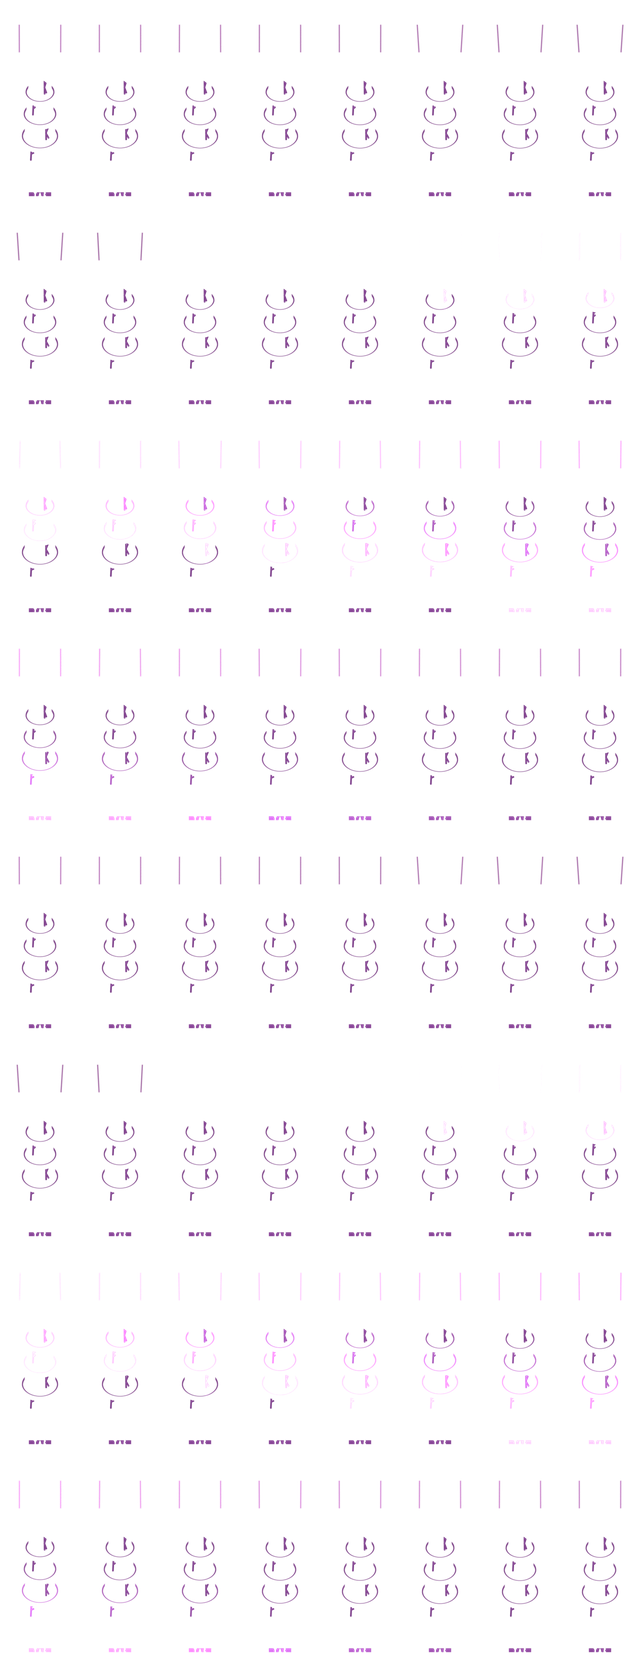
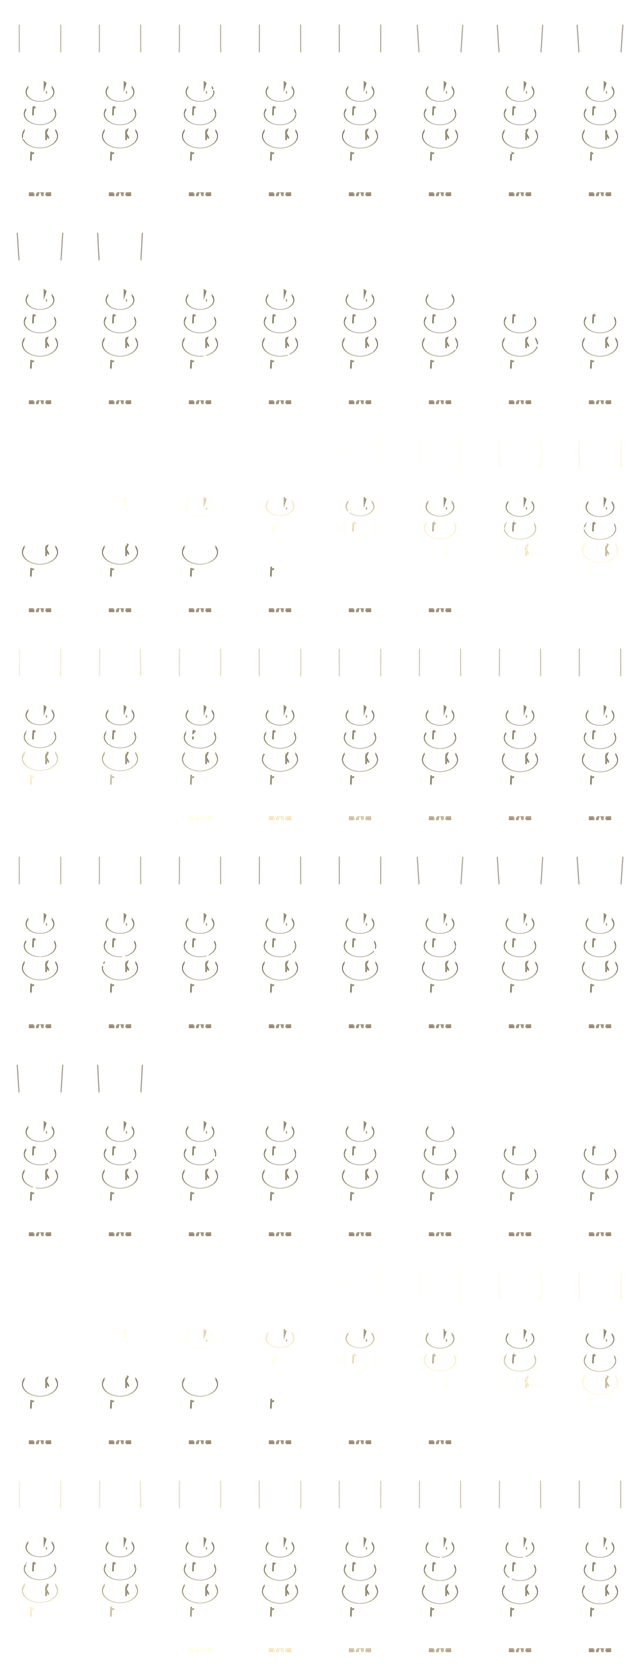
Make the resonance spire a whimsical golden music box
Bright jewel-like gold and brass with cream, sky-blue and rose enamel
instead of purple paint, quartz prisms, stars on the tines, a crescent
on the gimbal, a gold spiral up the shaft, little bells that swing when
the tines are plucked and golden motes rising like notes. It glows warm
golden-white.

diff --git a/blender/resonance_spire.py b/blender/resonance_spire.py
@@ -5,12 +5,16 @@ beacon that spreads the effect of the orb sitting in its cradle).
     blender -b --factory-startup -P blender/resonance_spire.py -- \
         --out graphics/generated/resonance-spire [--preview --frame 0,16]
 
-The spire is a tall gold-and-purple obelisk crowned by a tuning fork. The orb
-sits in a cradle between the tines. A gimbal ring spins around the orb; the
-two ruby strikers on its equator pluck both tines every half turn, the fork
-rings, and each blow sends a resonance wave down the obelisk: its runes light
-up top to bottom, the three floating halo rings jump as the wave passes and
-the rune band on the plinth flashes when it reaches the ground.
+The spire is a whimsical golden music box: a polished bright-gold obelisk
+with cream and sky-blue enamel, a spiral filigree twisting up it, crowned by a
+tuning fork with star finials. The orb sits in a cradle between the tines.
+A gimbal ring (with a crescent on top) spins around the orb; the two sapphire
+strikers on its equator pluck both tines every half turn, the fork rings, and
+each blow sends a resonance wave down the obelisk: the little bells under the
+capital swing, the runes light up top to bottom, the three floating halo
+rings jump as the wave passes and the rune band on the plinth flashes when it
+reaches the ground. Golden motes drift up around the shaft like notes rising
+from a music box.
 
 The orb itself is not part of the animation: Factorio draws it as a beacon
 module visualisation, so the spire shows whichever orb is inserted (or an
@@ -33,7 +37,7 @@ from pathlib import Path
 
 import bmesh
 import bpy
-from mathutils import Vector
+from mathutils import Matrix, Vector
 
 sys.path.insert(0, str(Path(__file__).parent))
 import fblend  # noqa: E402
@@ -44,6 +48,49 @@ from fblend import *  # noqa: E402,F401,F403
 
 N = fblend.N
 OUT = fblend.OUT
+
+# ----------------------------------------------------------------------------
+# Materials: a whimsical golden music box
+# ----------------------------------------------------------------------------
+# The spire stays golden but reads unlike the conjuration machine's heavy dark
+# gold: polished, bright, jewel-like gold and brass over cream enamel panels
+# with sky-blue and rose enamel accents, sapphire/rose-quartz studs and clear
+# quartz points. The shared helpers (frames, filigree, studs) use fblend's
+# GOLD/RUBY, so those names are rebound to the spire's own materials.
+BRIGHT_GOLD = metal("bright_gold", (1.0, 0.8, 0.36), (0.28, 0.16, 0.04), rough=(0.07, 0.22),
+                    dirt=0.06, bump=0.08)
+BRIGHT_BRASS = metal("bright_brass", (0.9, 0.7, 0.36), (0.2, 0.12, 0.04), rough=(0.15, 0.35),
+                     dirt=0.12)
+CREAM = paint("cream_enamel", (0.8, 0.66, 0.44), (0.16, 0.1, 0.05), noise_scale=9.0,
+              bump=0.25, bump_scale=30.0, dirt=0.15)
+SKY = paint("sky_enamel", (0.3, 0.55, 0.78), (0.04, 0.08, 0.14), noise_scale=9.0,
+            bump=0.25, bump_scale=30.0, dirt=0.15)
+ROSE_ENAMEL = paint("rose_enamel", (0.82, 0.45, 0.5), (0.15, 0.05, 0.06), noise_scale=9.0,
+                    bump=0.25, bump_scale=30.0, dirt=0.15)
+SAPPHIRE = gem("sapphire", (0.12, 0.35, 0.85))
+ROSE = gem("rose_quartz", (0.95, 0.42, 0.55))
+
+
+def crystal(name, tint=(0.97, 0.95, 0.9)):
+    """Clear quartz with a thin-film sheen that splits highlights into
+    prismatic glints."""
+    m, nt, bsdf = node_mat(name)
+    bsdf.inputs["Base Color"].default_value = (*tint, 1)
+    bsdf.inputs["Transmission Weight"].default_value = 1.0
+    bsdf.inputs["Roughness"].default_value = 0.03
+    bsdf.inputs["IOR"].default_value = 1.54
+    bsdf.inputs["Thin Film Thickness"].default_value = 420.0
+    bsdf.inputs["Thin Film IOR"].default_value = 1.9
+    return m
+
+
+CRYSTAL = crystal("quartz")
+GOLD = fblend.GOLD = BRIGHT_GOLD
+RUBY = fblend.RUBY = SAPPHIRE
+BRASS = BRIGHT_BRASS
+PURPLE = CREAM               # panels: cream enamel instead of purple paint
+BRONZE = BRIGHT_BRASS
+WARM = (1.0, 0.84, 0.55)     # resonance glow: warm golden white
 
 root = bpy.data.objects.new("resonance_spire", None)
 link(root)
@@ -117,18 +164,18 @@ ROW_Z = [SH_Z0 + (SH_Z1 - SH_Z0) * (k + 0.5) / RUNE_ROWS for k in range(RUNE_ROW
 ROW_EM = []
 ROW_MAT = []
 for k in range(RUNE_ROWS):
-    m, s = emitter(f"rune_row{k}", (0.8, 0.2, 1.0), 0.3, base=(0.08, 0.02, 0.08))
+    m, s = emitter(f"rune_row{k}", WARM, 0.3, base=(0.12, 0.1, 0.08))
     ROW_MAT.append(m)
     ROW_EM.append(s)
 BAND_Z = [SH_Z0 + (SH_Z1 - SH_Z0) * k / RUNE_ROWS for k in range(1, RUNE_ROWS)]
 HALO_Z = [z + 0.05 for z in BAND_Z]         # floating resonator rings over the bands
 HALO_MAT, HALO_EM = [], []
 for k in range(len(HALO_Z)):
-    m, s = emitter(f"halo_band{k}", (0.85, 0.25, 1.0), 0.3, base=(0.1, 0.02, 0.1))
+    m, s = emitter(f"halo_band{k}", WARM, 0.3, base=(0.12, 0.1, 0.08))
     HALO_MAT.append(m)
     HALO_EM.append(s)
-BASE_RUNE, BASE_EM = emitter("base_rune", (0.8, 0.2, 1.0), 0.3, base=(0.08, 0.02, 0.08))
-TINE_RUNE, TINE_EM = emitter("tine_rune", (1.0, 0.45, 1.0), 0.3, base=(0.1, 0.03, 0.1))
+BASE_RUNE, BASE_EM = emitter("base_rune", WARM, 0.3, base=(0.12, 0.1, 0.08))
+TINE_RUNE, TINE_EM = emitter("tine_rune", (1.0, 0.9, 0.72), 0.3, base=(0.12, 0.1, 0.08))
 
 # ----------------------------------------------------------------------------
 # Plinth and pedestal
@@ -146,7 +193,7 @@ for i in (7, 0, 1):          # visible faces: front chamfers and front
     j = (i + 1) % 8
     p = Panel(P3[i], P3[j], T3[j], T3[i])
     if i == 0:
-        # front: glowing rune band between gold bosses; flashes when the wave lands
+        # front: glowing rune band between rose-quartz bosses; flashes when the wave lands
         inner = sub_panel(p, 0.2, 0.8, 0.05, 0.95)
         inner.build("plinth_band", BASE_RUNE, thick=0.004, parent=root)
         glow(bpy.data.objects["plinth_band"])
@@ -156,13 +203,13 @@ for i in (7, 0, 1):          # visible faces: front chamfers and front
                 curve_obj(f"plinth_glyph{gi}_{si}",
                           [g.at(0.15 + 0.7 * a, 0.1 + 0.8 * b, 0.01) for a, b in stroke],
                           GOLD, 0.012, root)
-        p.studs("plinth_boss", [(0.1, 0.5), (0.9, 0.5)], r=0.035, mat=RUBY, parent=root)
+        p.studs("plinth_boss", [(0.1, 0.5), (0.9, 0.5)], r=0.035, mat=ROSE, parent=root)
         gold_frame(inner, "plinth_band_frame", r=0.018)
     else:
         p.studs(f"plinth_rivet{i}", [(0.3, 0.5), (0.7, 0.5)], r=0.02, parent=root)
 
 step = octagon(ST_HALF, ST_CH)
-prism("step", step, PL_H, ST_Z, PURPLE, top_poly=[(x * 0.9, y * 0.9) for x, y in step])
+prism("step", step, PL_H, ST_Z, SKY, top_poly=[(x * 0.9, y * 0.9) for x, y in step])
 rail("step_rail", [(x * 0.9, y * 0.9, ST_Z) for x, y in step], 0.035, closed=True)
 S3 = [Vector((x, y, PL_H + 0.01)) for x, y in step]
 U3 = [Vector((x * 0.9, y * 0.9, ST_Z)) for x, y in step]
@@ -179,15 +226,72 @@ for i in (7, 0, 1):
     else:
         p.studs(f"step_gem{i}", [(0.5, 0.5)], r=0.022, mat=RUBY, parent=root)
 
-# gold scroll buttresses from the pedestal's corners up onto the shaft
+
+
+def prism_crystal(name, base, axis, length, r, parent=root):
+    """Hexagonal quartz point: a six-sided column with a pyramidal tip,
+    grown from `base` along `axis`."""
+    axis = Vector(axis).normalized()
+    o = bpy.data.objects.new(name, None)
+    link(o, parent)
+    o.location = base
+    o.rotation_euler = axis.to_track_quat("Z", "Y").to_euler()
+    body = length * 0.7
+    cyl(name + "_body", r, body, (0, 0, body / 2), CRYSTAL, o, verts=6, bevel=0.003)
+    cyl(name + "_tip", r, length - body, (0, 0, body + (length - body) / 2), CRYSTAL, o,
+        verts=6, r2=0.0, bevel=0.002)
+    return o
+
+
+def flat_shape(name, outline, depth, loc, mat, parent):
+    """Extruded 2D outline (in its local xz plane), tilted back to face the
+    45 degree camera so it reads as a flat cut-out like a music-box ornament."""
+    bm = bmesh.new()
+    f = [bm.verts.new((x, -depth / 2, z)) for x, z in outline]
+    bk = [bm.verts.new((x, depth / 2, z)) for x, z in outline]
+    bm.faces.new(list(reversed(f)))
+    bm.faces.new(bk)
+    n = len(outline)
+    for i in range(n):
+        j = (i + 1) % n
+        bm.faces.new((f[i], f[j], bk[j], bk[i]))
+    bmesh.ops.recalc_face_normals(bm, faces=bm.faces)
+    o = mesh_obj(name, bm, mat, parent, bevel=depth * 0.35)
+    o.data.shade_flat()
+    o.location = loc
+    o.rotation_euler = (math.radians(-35), 0, 0)
+    return o
+
+
+def star(name, loc, r, mat, parent, points=5):
+    pts = []
+    for i in range(points * 2):
+        a = math.pi / 2 + math.pi * i / points
+        rr = r if i % 2 == 0 else r * 0.45
+        pts.append((rr * math.cos(a), rr * math.sin(a)))
+    return flat_shape(name, pts, 0.03, loc, mat, parent)
+
+
+def crescent(name, loc, r, mat, parent):
+    """Crescent moon: outer arc of radius r minus an offset inner arc."""
+    outer = [(r * math.cos(a), r * math.sin(a)) for a in
+             (math.radians(40 + 280 * i / 20) for i in range(21))]
+    c, ri = 0.45 * r, 0.8 * r
+    inner = [(c + ri * math.cos(a), ri * math.sin(a)) for a in
+             (math.radians(220 - 260 * i / 20) for i in range(21))]
+    return flat_shape(name, outer + inner[1:-1], 0.025, loc, mat, parent)
+
+
+# gold scroll buttresses from the pedestal's corners up onto the shaft, each
+# with a quartz point growing out of its foot
 for k in range(4):
     a = TAU * k / 4 - math.pi / 2          # S, E, N, W corners of the diamond
     d = Vector((math.cos(a), math.sin(a), 0))
     curl = fit(scroll_c(0, 0, 1), 0.0, 0.0, 0.17, 0.42, flip_x=True)
     rail(f"buttress{k}", [d * (sh_w(SH_Z0 + v) + 0.02 + u) + Vector((0, 0, SH_Z0 + v))
                           for u, v in curl], 0.024)
-    sphere(f"buttress_gem{k}", 0.026, tuple(d * (sh_w(SH_Z0) + 0.13) +
-                                            Vector((0, 0, SH_Z0 + 0.03))), RUBY, root)
+    prism_crystal(f"buttress_quartz{k}", d * (sh_w(SH_Z0) + 0.1) + Vector((0, 0, SH_Z0 - 0.02)),
+                  d * 0.55 + Vector((0, 0, 1)), 0.2, 0.032)
 
 # ----------------------------------------------------------------------------
 # Obelisk shaft
@@ -227,9 +331,12 @@ for row in range(RUNE_ROWS):
                                [inner.at(0.18 + 0.64 * u, 0.12 + 0.76 * v, 0.008)
                                 for u, v in stroke], ROW_MAT[row], 0.013, root))
         else:
-            inner.filigree(f"face{row}_{fi}_fil",
-                           [fit(scroll_c(0, 0, 1), 0.05, 0.05, 0.95, 0.95, flip_x=fi == 1)],
-                           radius=0.016, lift=0.01, parent=root)
+            # quartz bar set into the face in silver claws: it catches the
+            # warm light of the runes as the wave passes
+            lo_c, hi_c = Vector(inner.at(0.5, 0.1, 0.03)), Vector(inner.at(0.5, 0.9, 0.03))
+            prism_crystal(f"face{row}_{fi}_quartz", lo_c, hi_c - lo_c, (hi_c - lo_c).length,
+                          0.034)
+            inner.studs(f"face{row}_{fi}_claw", [(0.5, 0.08)], r=0.02, parent=root)
 
 # capital: flared gold collar carrying the fork's yoke
 cyl("capital_neck", sh_w(SH_Z1) * 0.75, 0.06, (0, 0, SH_Z1 + 0.03), GOLD, root, r2=sh_w(SH_Z1) * 0.9)
@@ -237,7 +344,7 @@ cyl("capital", 0.12, CAP_Z - SH_Z1 - 0.06, (0, 0, (CAP_Z + SH_Z1 + 0.06) / 2), G
     r2=0.17, verts=8, bevel=0.01).rotation_euler = (0, 0, math.pi / 8)
 rail("capital_rim", [(0.175 * math.cos(TAU * i / 8 + math.pi / 8),
                       0.175 * math.sin(TAU * i / 8 + math.pi / 8), CAP_Z) for i in range(8)],
-     0.022, closed=True)
+     0.022, closed=True, mat=BRASS)
 for i in range(8):
     a = TAU * i / 8
     sphere(f"capital_gem{i}", 0.02, (0.16 * math.cos(a), 0.16 * math.sin(a), CAP_Z - 0.045),
@@ -259,12 +366,48 @@ for k, z in enumerate(HALO_Z):
     h.location = (0, 0, z)
     r = sh_w(z) + 0.1
     ring(f"halo{k}_ring", r, 0.034, GOLD, h, verts=64, z0=-0.022, z1=0.022)
+    ring(f"halo{k}_enamel", r + 0.012, 0.012, SKY if k % 2 else ROSE_ENAMEL, h, verts=64,
+         z0=0.018, z1=0.026)
     glow(ring(f"halo{k}_band", r - 0.044, 0.008, HALO_MAT[k], h, verts=64, z0=-0.012, z1=0.012))
     for g in range(8):
         a = TAU * (g + 0.5) / 8
         sphere(f"halo{k}_stud{g}", 0.022 if g % 2 else 0.018,
-               (r * math.cos(a), r * math.sin(a), 0.022), RUBY if g % 2 else GOLD, h)
+               (r * math.cos(a), r * math.sin(a), 0.022), RUBY if g % 2 else ROSE, h)
     halos.append(h)
+
+# spiral filigree: two gold strands twisting up the shaft (the music-box
+# twist), passing behind the halo rings
+SPIRAL_TURNS = 1.25
+for k in range(2):
+    pts = []
+    for i in range(97):
+        u = i / 96
+        z = SH_Z0 + 0.06 + u * (SH_Z1 - SH_Z0 - 0.12)
+        a = math.pi * k + TAU * SPIRAL_TURNS * u - math.pi / 2
+        # the shaft is a diamond: hug it at the distance of its faces
+        r = sh_w(z) * (0.71 + 0.29 * abs(math.cos(2 * a))) + 0.022
+        pts.append((r * math.cos(a), r * math.sin(a), z))
+    rail(f"spiral{k}", pts, 0.017)
+
+# little bells hanging under the capital rim; the resonance wave sets them
+# swinging (a damped pendulum kicked by every pluck)
+bells = []
+for k, a in enumerate((math.radians(-135), math.radians(-45), math.radians(45),
+                       math.radians(135))):
+    d = Vector((math.cos(a), math.sin(a), 0))
+    hang = d * 0.31 + Vector((0, 0, CAP_Z + 0.02))
+    rail(f"bell_bracket{k}", [d * 0.15 + Vector((0, 0, CAP_Z - 0.04)), hang], 0.012,
+         mat=BRASS)
+    b = bpy.data.objects.new(f"bell{k}", None)     # pivot at the hanger
+    link(b, root)
+    b.location = hang
+    b.rotation_mode = "XYZ"
+    sphere(f"bell{k}_crown", 0.022, (0, 0, -0.025), GOLD, b)
+    cyl(f"bell{k}_body", 0.045, 0.1, (0, 0, -0.08), GOLD, b, verts=24, r2=0.022)
+    cyl(f"bell{k}_band", 0.05, 0.022, (0, 0, -0.1), SKY if k % 2 else ROSE_ENAMEL, b, verts=24)
+    cyl(f"bell{k}_lip", 0.066, 0.03, (0, 0, -0.14), GOLD, b, verts=24, r2=0.048)
+    sphere(f"bell{k}_clapper", 0.02, (0, 0, -0.165), ROSE if k % 2 else SAPPHIRE, b)
+    bells.append((b, d))
 
 # ----------------------------------------------------------------------------
 # Tuning fork
@@ -291,7 +434,7 @@ for side in (-1, 1):
     box(f"tine{side}_bar", (TT, TD, L), (0, 0, L / 2), GOLD, t, bevel=0.014)
     # enamel strip with a glowing slot down the front face
     box(f"tine{side}_enamel", (TT * 0.6, 0.01, L * 0.78), (0, -TD / 2 - 0.004, L * 0.47),
-        PURPLE, t, bevel=0.003)
+        SKY, t, bevel=0.003)
     glow(box(f"tine{side}_slot", (TT * 0.22, 0.012, L * 0.66), (0, -TD / 2 - 0.008, L * 0.47),
              TINE_RUNE, t, bevel=0.002))
     for zz in (0.06, L * 0.5, L - 0.08):
@@ -302,8 +445,9 @@ for side in (-1, 1):
                                 fit(scroll_c(0, 0, 1), 0.0, L * 0.12, 0.13, L * 0.55,
                                     flip_x=True)], 0.02, parent=t)
     sphere(f"tine{side}_gem", 0.026, (side * (TT / 2 + 0.03), -0.02, L * 0.12), RUBY, t)
-    # tip finial: gold spike with a ruby
-    cyl(f"tine{side}_tipcone", TT * 0.62, 0.12, (0, 0, L + 0.06), GOLD, t, verts=8, r2=0.0)
+    # tip finial: a five-pointed star on a short stalk, turned to the camera
+    cyl(f"tine{side}_stalk", 0.016, 0.06, (0, 0, L + 0.03), GOLD, t, verts=12)
+    star(f"tine{side}_star", (0, 0, L + 0.13), 0.09, GOLD, t)
     sphere(f"tine{side}_tipgem", 0.03, (0, -0.02, L - 0.02), RUBY, t)
     tines.append((side, t))
 
@@ -313,9 +457,9 @@ cyl("spike_stem", 0.03, 0.22, (0, 0.2, CAP_Z + 0.1), GOLD, root)
 # ----------------------------------------------------------------------------
 # Cradle and gimbal
 # ----------------------------------------------------------------------------
-# A bronze stem rises from the capital to a claw cup holding the orb. The
+# A brass stem rises from the capital to a claw cup holding the orb. The
 # gimbal is a meridian ring that turns about the stem on a collar at its
-# lower pole; an equatorial ring is rigidly pinned to it. The two ruby
+# lower pole; an equatorial ring is rigidly pinned to it. The two sapphire
 # strikers on the equator reach out to RB + RBALL, past the tines' inner faces
 # at TINE_X, so every half turn they pluck both tines (outwards, i.e. the
 # tuning fork's natural anti-phase mode).
@@ -346,9 +490,9 @@ mer = ring("gimbal_meridian", RING_R, RING_T, GOLD, gimbal, verts=64, z0=-0.016,
 mer.rotation_euler = (math.radians(90), 0, 0)        # in the local xz plane
 ring("gimbal_equator", RING_R + 0.004, 0.016, BRASS, gimbal, verts=64, z0=-0.014, z1=0.014)
 cyl("gimbal_collar", 0.05, 0.06, (0, 0, -RING_R), BRASS, gimbal, verts=24)
-sphere("gimbal_pole_gem", 0.026, (0, 0, RING_R + 0.012), RUBY, gimbal)
+crescent("gimbal_crescent", (0, 0, RING_R + 0.07), 0.065, GOLD, gimbal)
 for sx in (-1, 1):
-    # striker: pin boss on the equator, arm, ruby ball
+    # striker: pin boss on the equator, arm, sapphire ball
     cyl(f"striker{sx}_arm", 0.014, RB - RING_R, (sx * (RING_R + RB) / 2, 0, 0), STEEL, gimbal,
         rot=(0, math.radians(90), 0), verts=12)
     sphere(f"striker{sx}_boss", 0.026, (sx * RING_R, 0, 0), GOLD, gimbal)
@@ -395,6 +539,23 @@ orb_light_d.shadow_soft_size = 0.05
 orb_light = bpy.data.objects.new("orb_light", orb_light_d)
 link(orb_light, root)
 orb_light.location = (0, 0, ORB_Z)
+
+# golden motes drifting up around the spire, like notes rising from a music box
+MOTE, MOTE_EM = emitter("mote", WARM, 4.0)
+MOTES = 9
+motes = [glow(sphere(f"mote{k}", 0.019, (0, 0, 0), MOTE, root, segs=8)) for k in range(MOTES)]
+
+
+def pose_motes(f):
+    for k, m in enumerate(motes):
+        u = (f / N + k / MOTES) % 1.0              # one climb per loop: seamless
+        z = SH_Z0 + 0.1 + u * (CAP_Z - SH_Z0)
+        a = TAU * (1.5 * u + k * 0.38)
+        r = sh_w(z) + 0.2 + 0.03 * math.sin(TAU * (2 * u + k * 0.3))
+        m.location = (r * math.cos(a), r * math.sin(a), z)
+        s_ = math.sin(math.pi * u) ** 0.5           # fade in at the base, out at the top
+        m.scale = (s_, s_, s_)
+
 
 # ----------------------------------------------------------------------------
 # Kinematics
@@ -470,6 +631,7 @@ print("deflection", " ".join(f"{d:.3f}" for d in DEFLECT))
 assert len(STRIKES) == 2, STRIKES
 
 WAVE_SPEED = 0.22        # tiles of height per frame for the resonance wave
+BELL_AMP, BELL_PERIOD, BELL_DECAY = math.radians(28), 12.0, 10.0   # loop-safe: decayed by N/2
 
 
 def since_strike(f, delay=0.0):
@@ -503,6 +665,14 @@ def pose(f):
         h.rotation_euler = (0, 0, TAU * f / N * (1 if k % 2 else -1) / 4)
         HALO_EM[k].default_value = 0.25 + 3.0 * pulse(age, 3.0)
     BASE_EM.default_value = 0.3 + 3.0 * pulse(since_strike(f, (ROOT_Z - PL_H) / WAVE_SPEED), 3.0)
+    # bells: damped pendulums kicked as the wave passes the capital; they
+    # swing outwards (about the horizontal axis tangent to the rim)
+    age = since_strike(f, (ROOT_Z - CAP_Z) / WAVE_SPEED)
+    swing = BELL_AMP * math.exp(-age / BELL_DECAY) * math.sin(TAU * age / BELL_PERIOD)
+    for b, d in bells:
+        tangent = Vector((-d.y, d.x, 0))
+        b.rotation_euler = Matrix.Rotation(swing, 3, tangent).to_euler()
+    pose_motes(f)
 
 
 # ----------------------------------------------------------------------------
